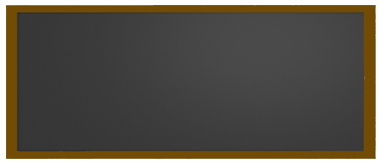
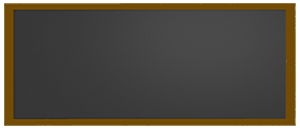
Added designs and gameOver functionality

Changed region(s): [[0.0, 0.0, 0.99, 0.9922]]

diff --git a/client/src/scenes/game.js b/client/src/scenes/game.js
@@ -183,7 +183,7 @@ var EnemyBase = new Phaser.Class({
   Extends: Phaser.GameObjects.Image,
 
   initialize: function EnemyBase(scene){
-    Phaser.GameObjects.Image.call(this, scene, 715, 224, "sprites", "turret");
+    Phaser.GameObjects.Image.call(this, scene, 715, 224, "p2base");
   },
 })
 
@@ -196,10 +196,10 @@ function touchBase(enemy, enemyBase){
 
 function decrementBlueScore(){
   score -= 1;
-  redText.setText("Blue: " + score);
-  if(score < 0){
+  blueText.setText("P1 | " + score);
+  if(score <= 0){
     gameOver = true;
-    blueText.setText("Blue: 0");
+    blueText.setText("P1 | 0");
     return true;
   }
   return null;
@@ -207,10 +207,13 @@ function decrementBlueScore(){
 
 function decrementRedScore(){
   score -= 1;
-  redText.setText("Red: " + score);
-  if(score < 0){
+  redText.setText("P2 | " + score);
+  if(score <= 0){
     gameOver = true;
-    redText.setText("Red: 0");
+    redText.setText("P2 | 0");
+    this.scene.start("SceneTwo", {
+      "message": "Game Over, Player One wins!"
+    });
     return true;
   }
   return null;
@@ -240,7 +243,7 @@ function placeTurret(pointer) {
     if(resourcePoints){
     var turret = turrets.get();
     resourcePoints -= 3;
-    resourceText.setText("Resource: " + resourcePoints)
+    resourceText.setText("RESOURCE | " + resourcePoints)
     if (turret) {
       turret.setActive(true);
       turret.setVisible(true);
@@ -297,10 +300,16 @@ export default class Game extends Phaser.Scene {
     this.load.spritesheet('p1attackers', "src/assets/player1_attackers.png", { frameWidth: 70, frameHeight: 45 })
     this.load.image('p2turret', "src/assets/player2_turret.png")
     this.load.image("bullet", "src/assets/bullet.png");
+    this.load.image('scoreboard', 'src/assets/scoreboard.png')
+    this.load.image('blackboard', 'src/assets/blackboard.png')
+    this.load.spritesheet('p2base', 'src/assets/player2_base2.png', {frameWidth:70, frameHeight:85})
   }
 
   create() {
     this.add.image(400, 300, 'background');
+    this.add.image(85,508, "scoreboard")
+    this.add.image(400, 535, "blackboard")
+
     //sets the default to "you are not Player A"
     this.isPlayerA = false;
 
@@ -365,11 +374,11 @@ export default class Game extends Phaser.Scene {
       // this graphics element is only for visualization,
       // its not related to our path
 
-      resourceText = self.add.text(345, 508, `Resource: ` + resourcePoints, { fontSize: '24px', fill: 'white' })
+      resourceText = self.add.text(300, 520, `RESOURCE | ` + resourcePoints, { fontFamily: 'Arial Black', fontStyle: 'bold', fontSize: '24px', fill: 'white' })
 
-      redText = self.add.text(640, 508, `Red: ` + score, { fontSize: '24px', fill: '#FF0000' })
+      redText = self.add.text(50, 540, `P2 | ` + score, { fontFamily: 'Arial Black', fontStyle: 'bold', fontSize: '24px', fill: 'white' })
 
-      blueText = self.add.text(85, 508, `Blue: ` + score, { fontSize: '24px', fill: '#0000FF' })
+      blueText = self.add.text(50, 505, `P1 | ` + score, {fontFamily: 'Arial Black', fontStyle: 'bold', fontSize: '24px', fill: 'white' })
 
       bullets = self.physics.add.group({
         classType: Bullet,
@@ -384,7 +393,7 @@ export default class Game extends Phaser.Scene {
       self.physics.add.overlap(enemies, bullets, damageEnemy);
 
       self.physics.add.collider(enemies, enemyBase, touchBase, decrementRedScore, self);
-    });
+
 
 
 
@@ -410,9 +419,9 @@ export default class Game extends Phaser.Scene {
     //that an enemy has been deployed
     // if its time for the next enemy
 
-//     if(gameOver){
-//       return;
-//     }
+    // if(gameOver){
+
+    // }
 //     else{
 //     if (time > this.nextEnemy) {
 //       var enemy = enemies.get();

diff --git a/client/src/scenes/gameOver.js b/client/src/scenes/gameOver.js
@@ -1,0 +1,24 @@
+export default new Phaser.Class({
+  Extends: Phaser.Scene,
+  initialize: function() {
+      Phaser.Scene.call(this, { "key": "SceneTwo" });
+  },
+  init: function(data) {
+    this.message = data.message;
+    console.log("hello");
+},
+  preload: function() {},
+  create: function() {
+    var text = this.add.text(
+        400,
+        300,
+        this.message,
+        {
+            fontSize: 30,
+            color: "white",
+            fontStyle: "bold"
+        }
+    ).setOrigin(0.5);
+},
+  update: function() {}
+});

diff --git a/client/src/index.js b/client/src/index.js
@@ -1,5 +1,6 @@
 import Phaser from "phaser";
 import Game from "./scenes/game";
+import SceneTwo from "./scenes/gameOver"
 
 const config = {
   type: Phaser.AUTO,
@@ -9,7 +10,7 @@ const config = {
   physics: {
     default: "arcade",
   },
-  scene: [Game],
+  scene: [Game, SceneTwo],
 };
 
 const game = new Phaser.Game(config);
